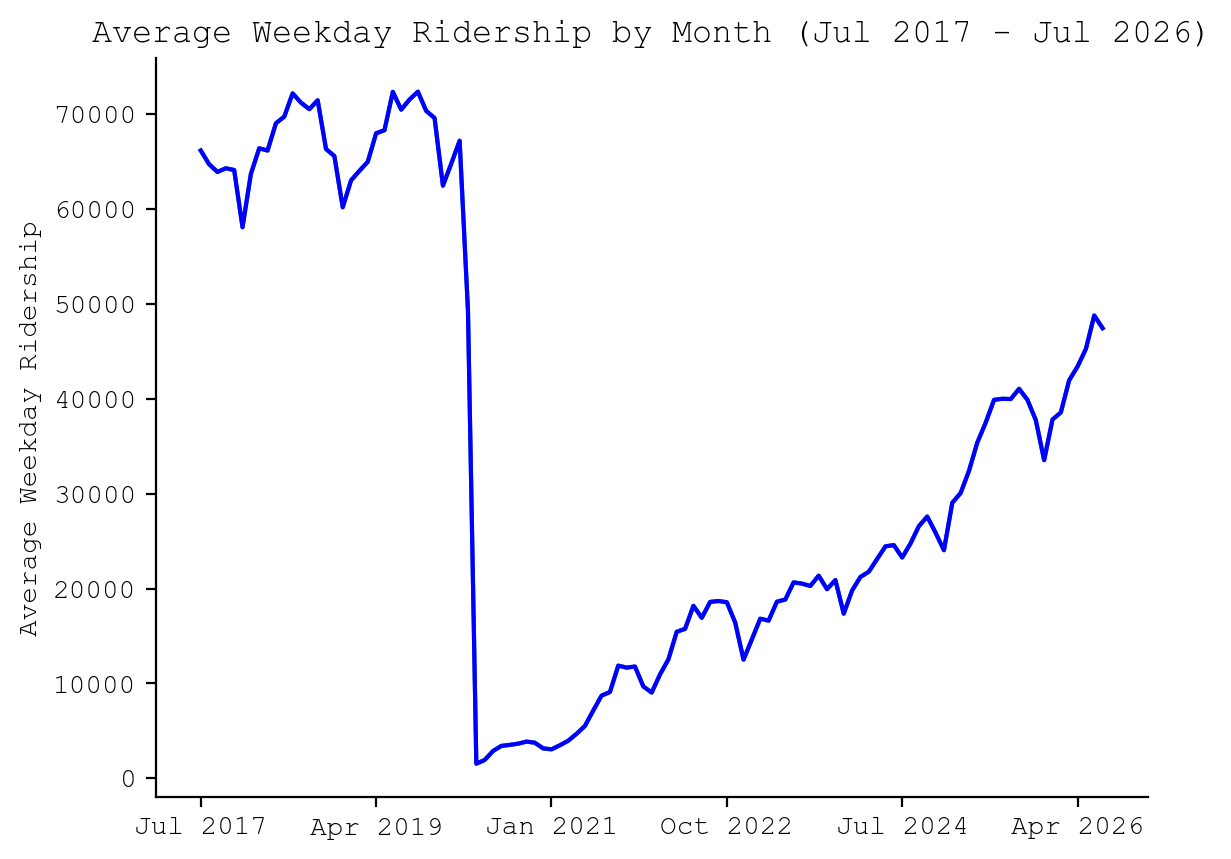
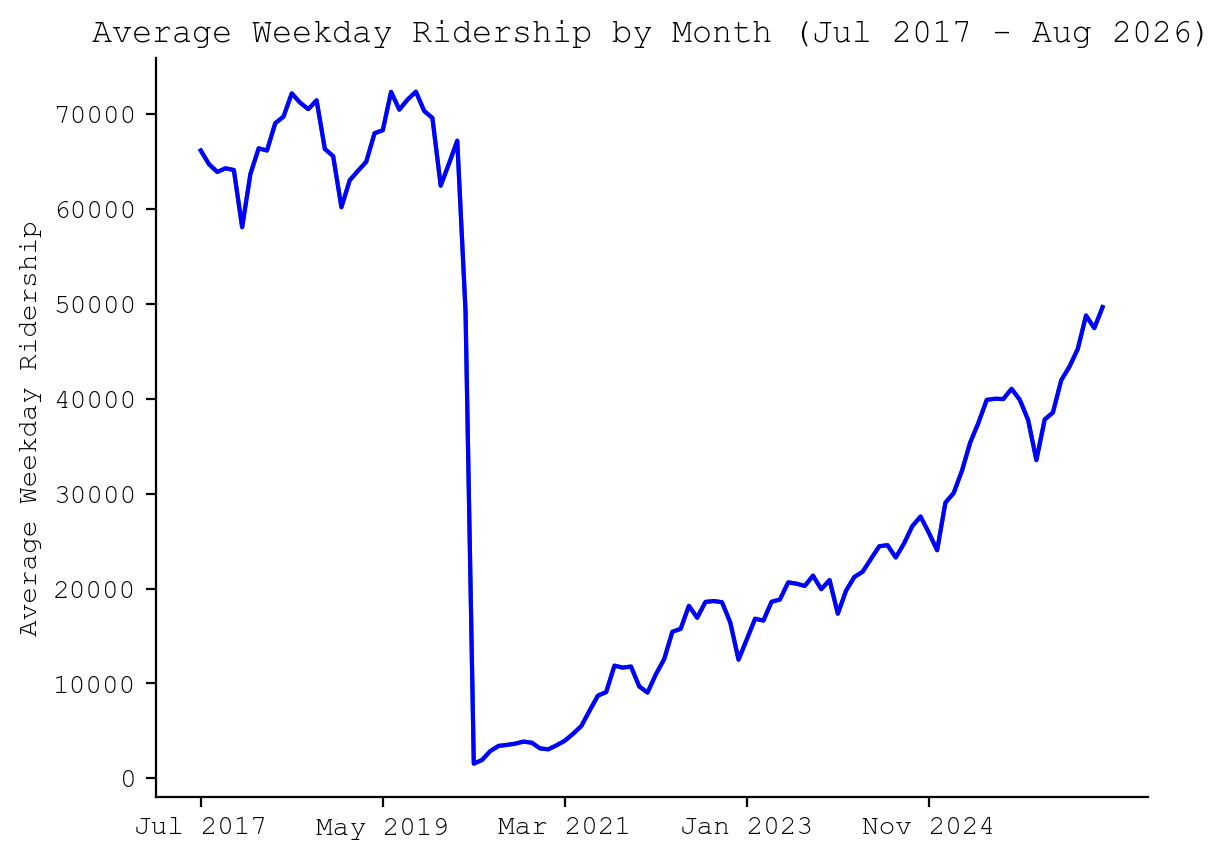
add aug 2026

diff --git a/site/index.html b/site/index.html
@@ -9,15 +9,15 @@
 </head>
 <body>
     <h1>Caltrain Ridership</h1>
-    <p><em>Last updated: 2026-08-10</em></p>    
+    <p><em>Last updated: 2026-09-10</em></p>    
     <div class="news">
         <p>
             It looks like you're on desktop, so you can use Caltrain's new ridership web page which has more detailed ridership data from 2023 onwards: <a href="https://www.caltrain.com/about-caltrain/statistics-reports/ridership/fare-media-based">https://www.caltrain.com/about-caltrain/statistics-reports/ridership/fare-media-based</a>.
         </p>
     </div>
     <p>
-        This site contains graphs and a table of Caltrain's average weekday ridership from Jul 2017 to Jul 2026 sourced from <a href="https://www.caltrain.com/about-caltrain/statistics-reports/ridership/fare-media-based">Fare Media Sales-Based Ridership Estimates</a> and JPB Citizens Advisory Committee documents.
-        Average weekday ridership is reported with a 1-month lag, so the most recent data is from Jul 2026.
+        This site contains graphs and a table of Caltrain's average weekday ridership from Jul 2017 to Aug 2026 sourced from <a href="https://www.caltrain.com/about-caltrain/statistics-reports/ridership/fare-media-based">Fare Media Sales-Based Ridership Estimates</a> and JPB Citizens Advisory Committee documents.
+        Average weekday ridership is reported with a 1-month lag, so the most recent data is from Aug 2026.
     </p>
     <p>
         You can find a <a href="https://github.com/iechevarria/caltrain-ridership/blob/main/ridership.csv">CSV</a> of Caltrain's average weekday ridership and the script to generate this site on <a href="https://github.com/iechevarria/caltrain-ridership">GitHub</a>.
@@ -31,6 +31,10 @@
     <tr>
         <td>Month</td>
         <td>Average weekday ridership</td>
+    </tr>
+    <tr>
+        <td>Aug 2026</td>
+        <td>49685</td>
     </tr>
     <tr>
         <td>Jul 2026</td>
